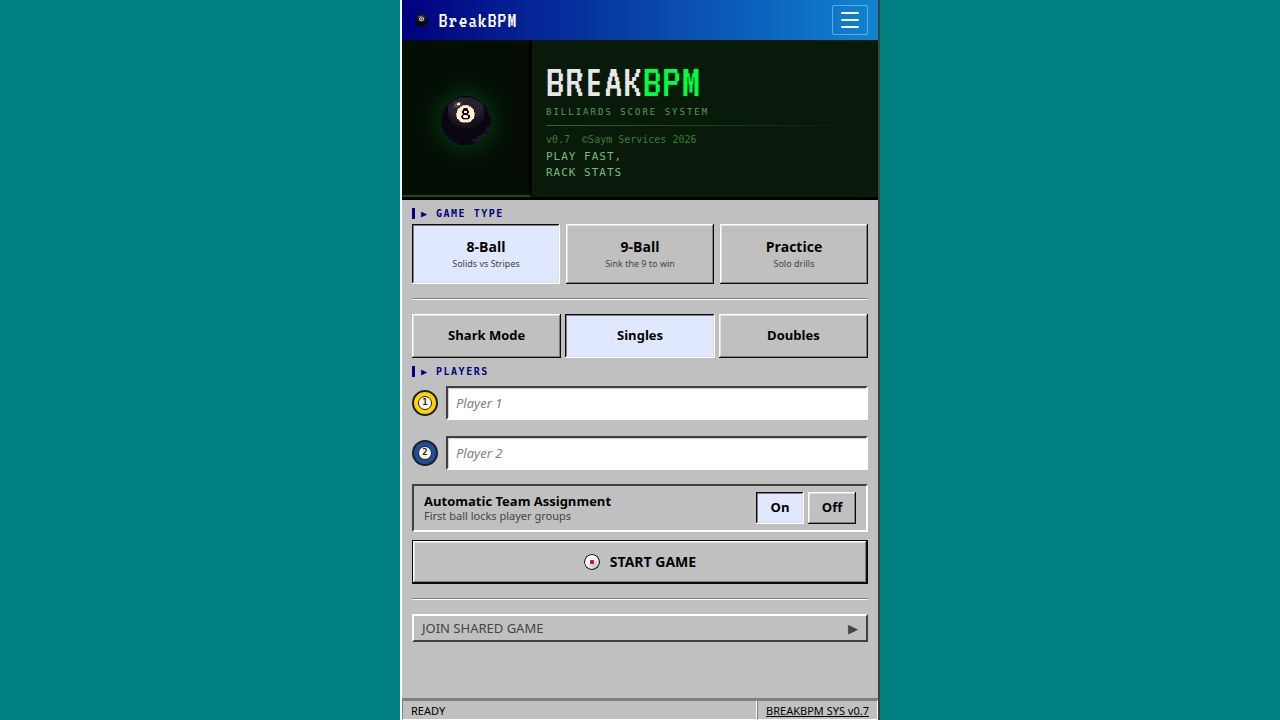
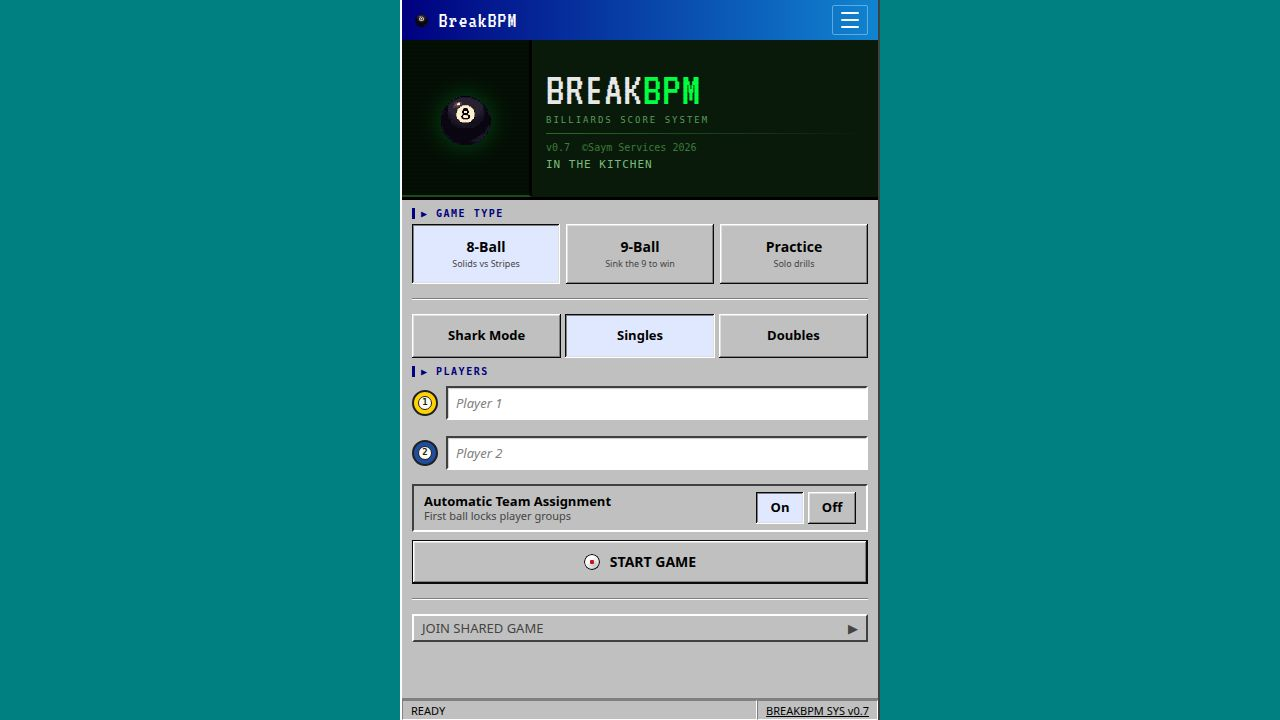
Ensure the map stays below the navigation bar when scrolling
Update CSS for the map container to include relative positioning, a z-index of 0, and isolation to prevent Leaflet's internal z-index stacking from overlapping the sticky navigation bar.

Replit-Commit-Author: Agent
Replit-Commit-Session-Id: 8048476f-a587-44b9-ae13-f439bfb55cd9
Replit-Commit-Checkpoint-Type: full_checkpoint
Replit-Commit-Event-Id: 6d7881d9-7194-4306-b72d-3d7fd6b67495
Replit-Commit-Screenshot-Url: https://storage.googleapis.com/screenshot-production-us-central1/c1c04b8f-410f-4202-8d87-6dabc0f6d7fb/8048476f-a587-44b9-ae13-f439bfb55cd9/fs3uwqk
Replit-Helium-Checkpoint-Created: true

Changed region(s): [[0.4062, 0.0917, 0.5625, 0.2444]]

diff --git a/artifacts/breakbpm/src/index.css b/artifacts/breakbpm/src/index.css
@@ -1699,6 +1699,9 @@ html, #root {
   padding: 10px;
 }
 .fpp-map {
+  position: relative;
+  z-index: 0;
+  isolation: isolate;
   width: 100%;
   border: 2px inset var(--silver);
   background: #aad3df;